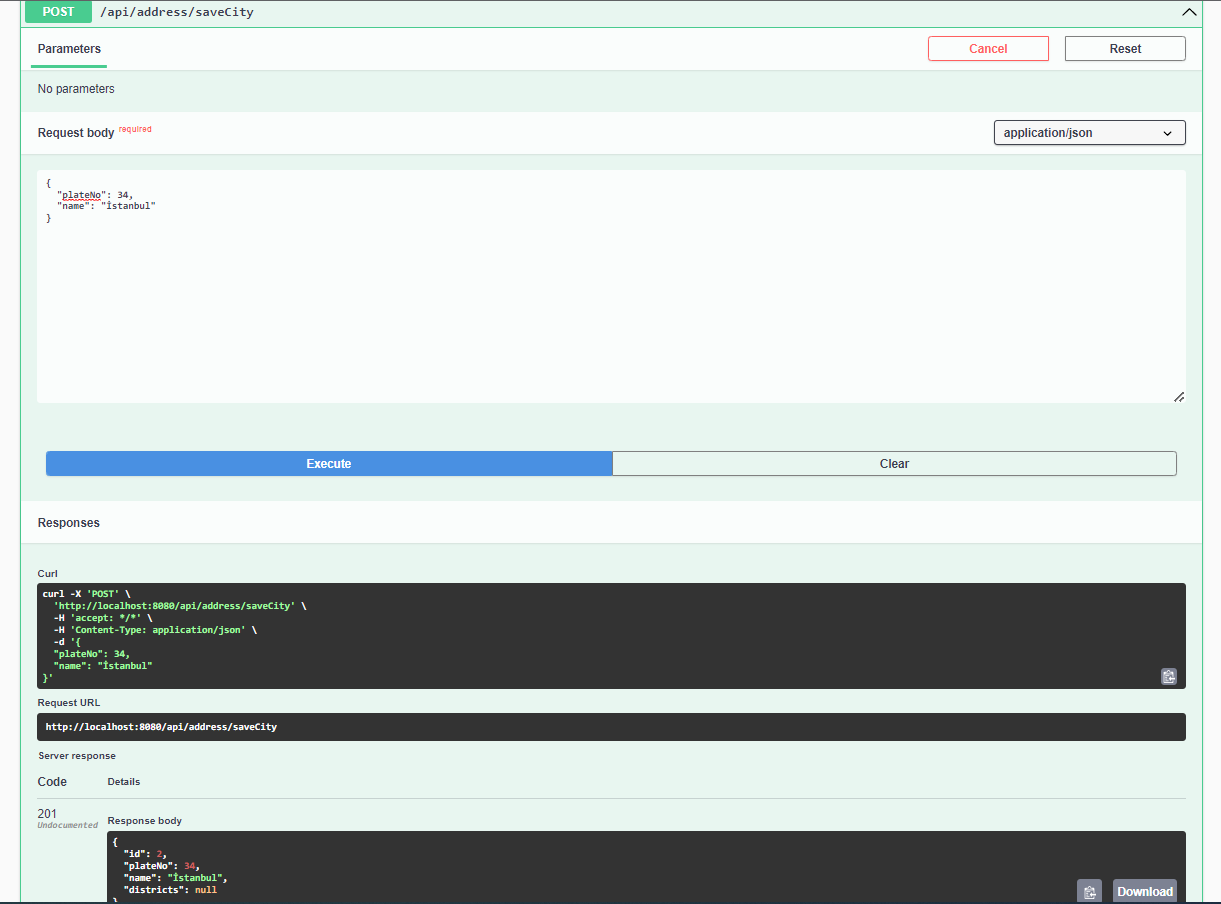
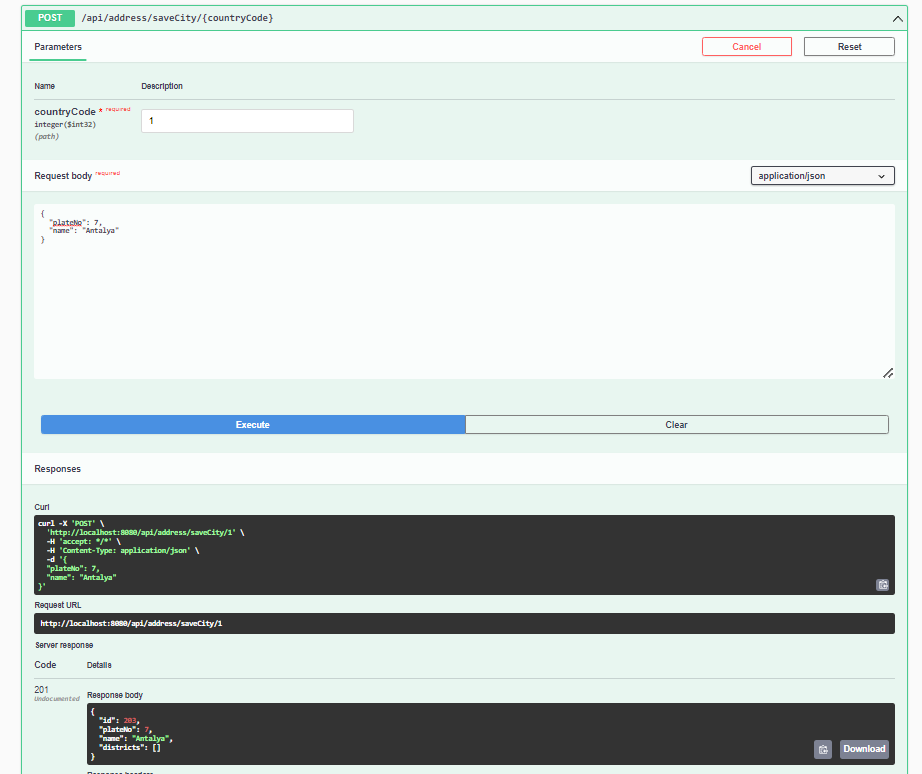
Add saveCity belong to Country

diff --git a/hw2/src/main/java/com/farukkavlak/hw2/Service/CityService.java b/hw2/src/main/java/com/farukkavlak/hw2/Service/CityService.java
@@ -1,7 +1,9 @@
 package com.farukkavlak.hw2.Service;
 
 import com.farukkavlak.hw2.Dao.CityDao;
+import com.farukkavlak.hw2.Dao.CountryDao;
 import com.farukkavlak.hw2.Model.City;
+import com.farukkavlak.hw2.Model.Country;
 import com.farukkavlak.hw2.Model.District;
 import org.springframework.beans.factory.annotation.Autowired;
 import org.springframework.stereotype.Service;
@@ -13,7 +15,11 @@ import java.util.List;
 public class CityService {
     @Autowired
     private CityDao cityDao;
-    public City saveCity(City city) {
+    @Autowired
+    private CountryDao countryDao;
+    public City saveCity(City city, int belongCountryCode) {
+        Country country = countryDao.findByCountryCode(belongCountryCode);
+        country.getCities().add(city);
         return cityDao.save(city);
     }
     public City getCityByPlateNo(int plate_no) {

diff --git a/hw2/src/main/java/com/farukkavlak/hw2/Model/Country.java b/hw2/src/main/java/com/farukkavlak/hw2/Model/Country.java
@@ -7,6 +7,8 @@ import lombok.NoArgsConstructor;
 import lombok.Setter;
 
 import javax.persistence.*;
+import java.util.ArrayList;
+import java.util.List;
 
 @Entity
 @AllArgsConstructor
@@ -26,6 +28,10 @@ public class Country {
 
     @Column(nullable = false)
     private Integer countryCode;
+
+    @OneToMany(fetch = FetchType.LAZY,targetEntity = City.class)
+    @JoinColumn(name = "country_city_fk", referencedColumnName = "id")
+    public List<City> cities = new ArrayList<City>();
 
     public Country(int countryCode, String countryName) {
         this.countryCode = countryCode;

diff --git a/hw2/src/main/java/com/farukkavlak/hw2/Controller/AddressController.java b/hw2/src/main/java/com/farukkavlak/hw2/Controller/AddressController.java
@@ -53,9 +53,9 @@ public class AddressController {
 
     //CITY
     //Save city with given city entity
-    @PostMapping("saveCity")
-    public ResponseEntity saveCity(@RequestBody City city){
-        City savedCity = cityService.saveCity(city);
+    @PostMapping("saveCity/{countryCode}")
+    public ResponseEntity saveCity(@RequestBody City city,@PathVariable("countryCode") int countryCode){
+        City savedCity = cityService.saveCity(city,countryCode);
         return new ResponseEntity(savedCity, HttpStatus.CREATED);
     }
 

diff --git a/hw2/src/main/java/com/farukkavlak/hw2/Converter/AddressConverter.java b/hw2/src/main/java/com/farukkavlak/hw2/Converter/AddressConverter.java
@@ -98,7 +98,7 @@ public class AddressConverter {
             address.setCity(cityService.getCityByPlateNo(addressSaveRequestDto.getPlateNo()));
         }else{
             City city = new City(addressSaveRequestDto.getCityName(), addressSaveRequestDto.getPlateNo());
-            cityService.saveCity(city);
+            cityService.saveCity(city, addressSaveRequestDto.getCountryCode());
             address.setCity(city);
         }
     }
